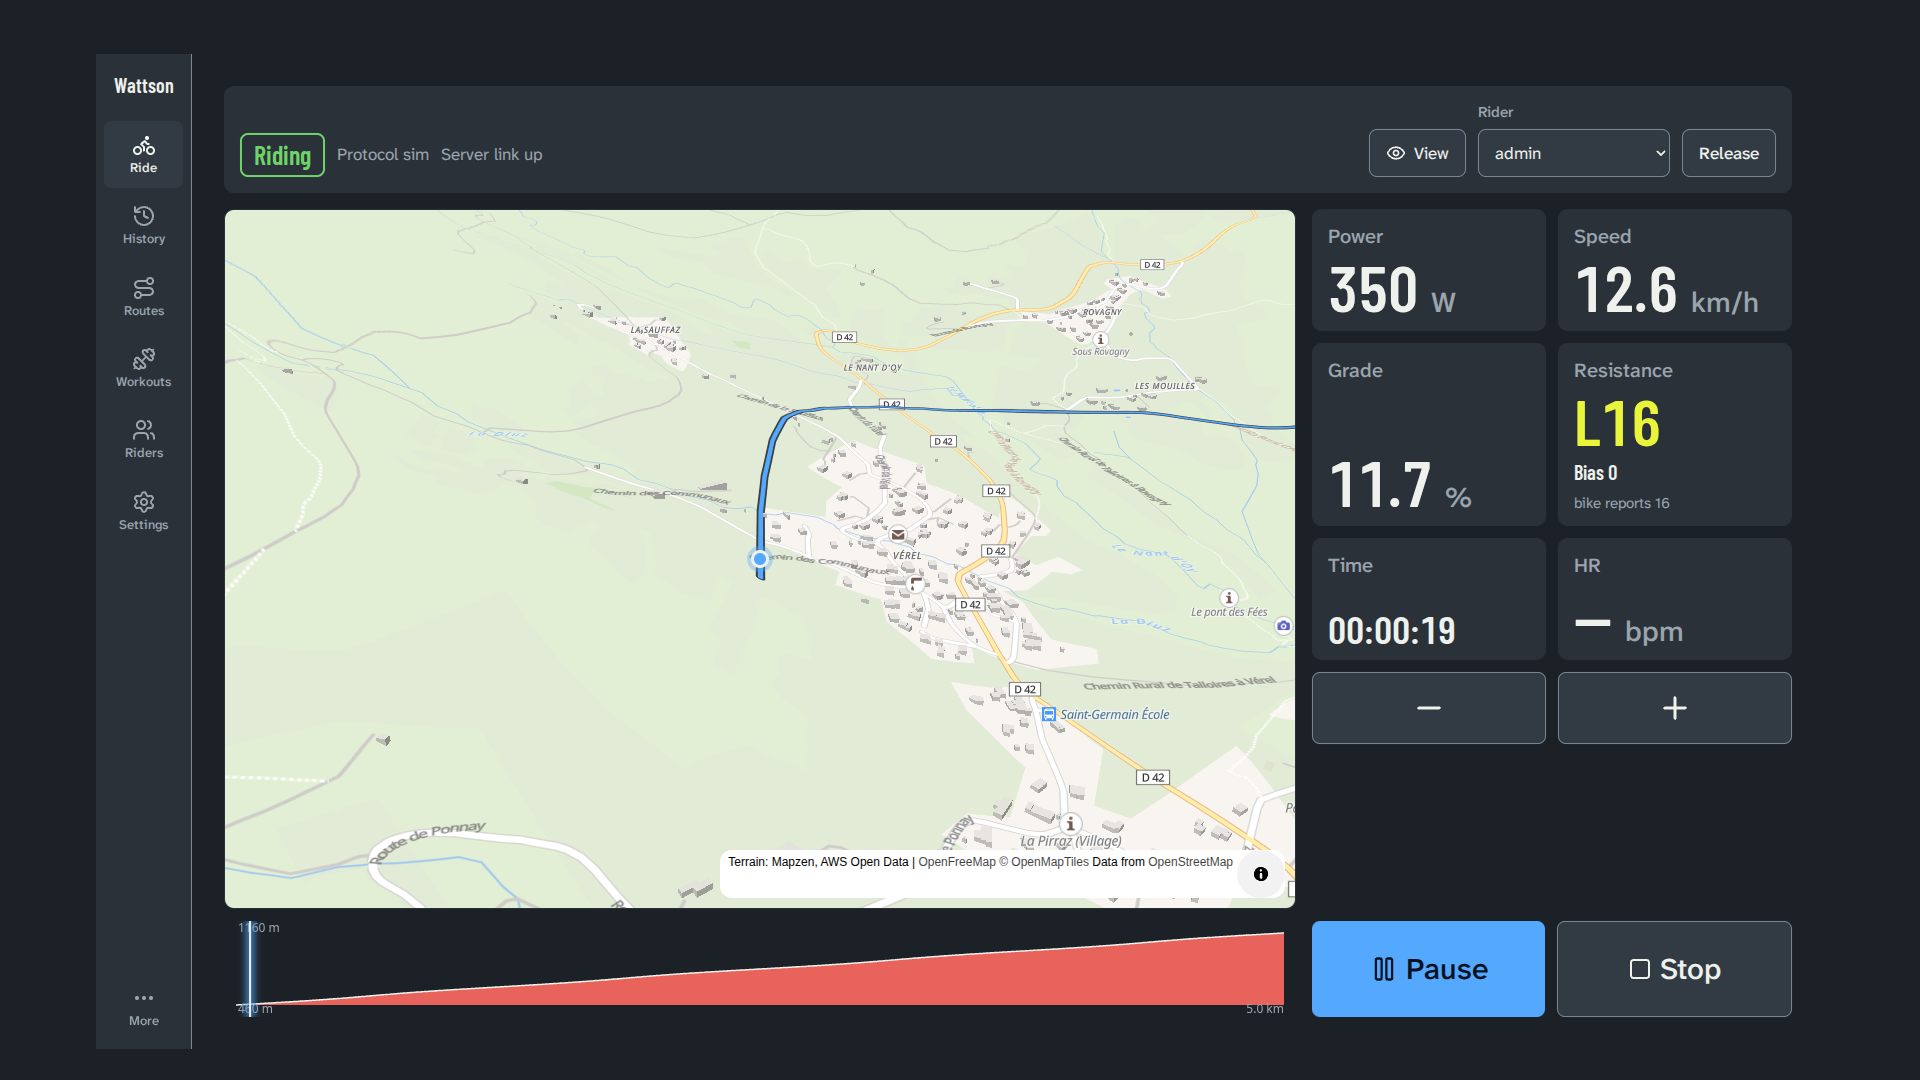
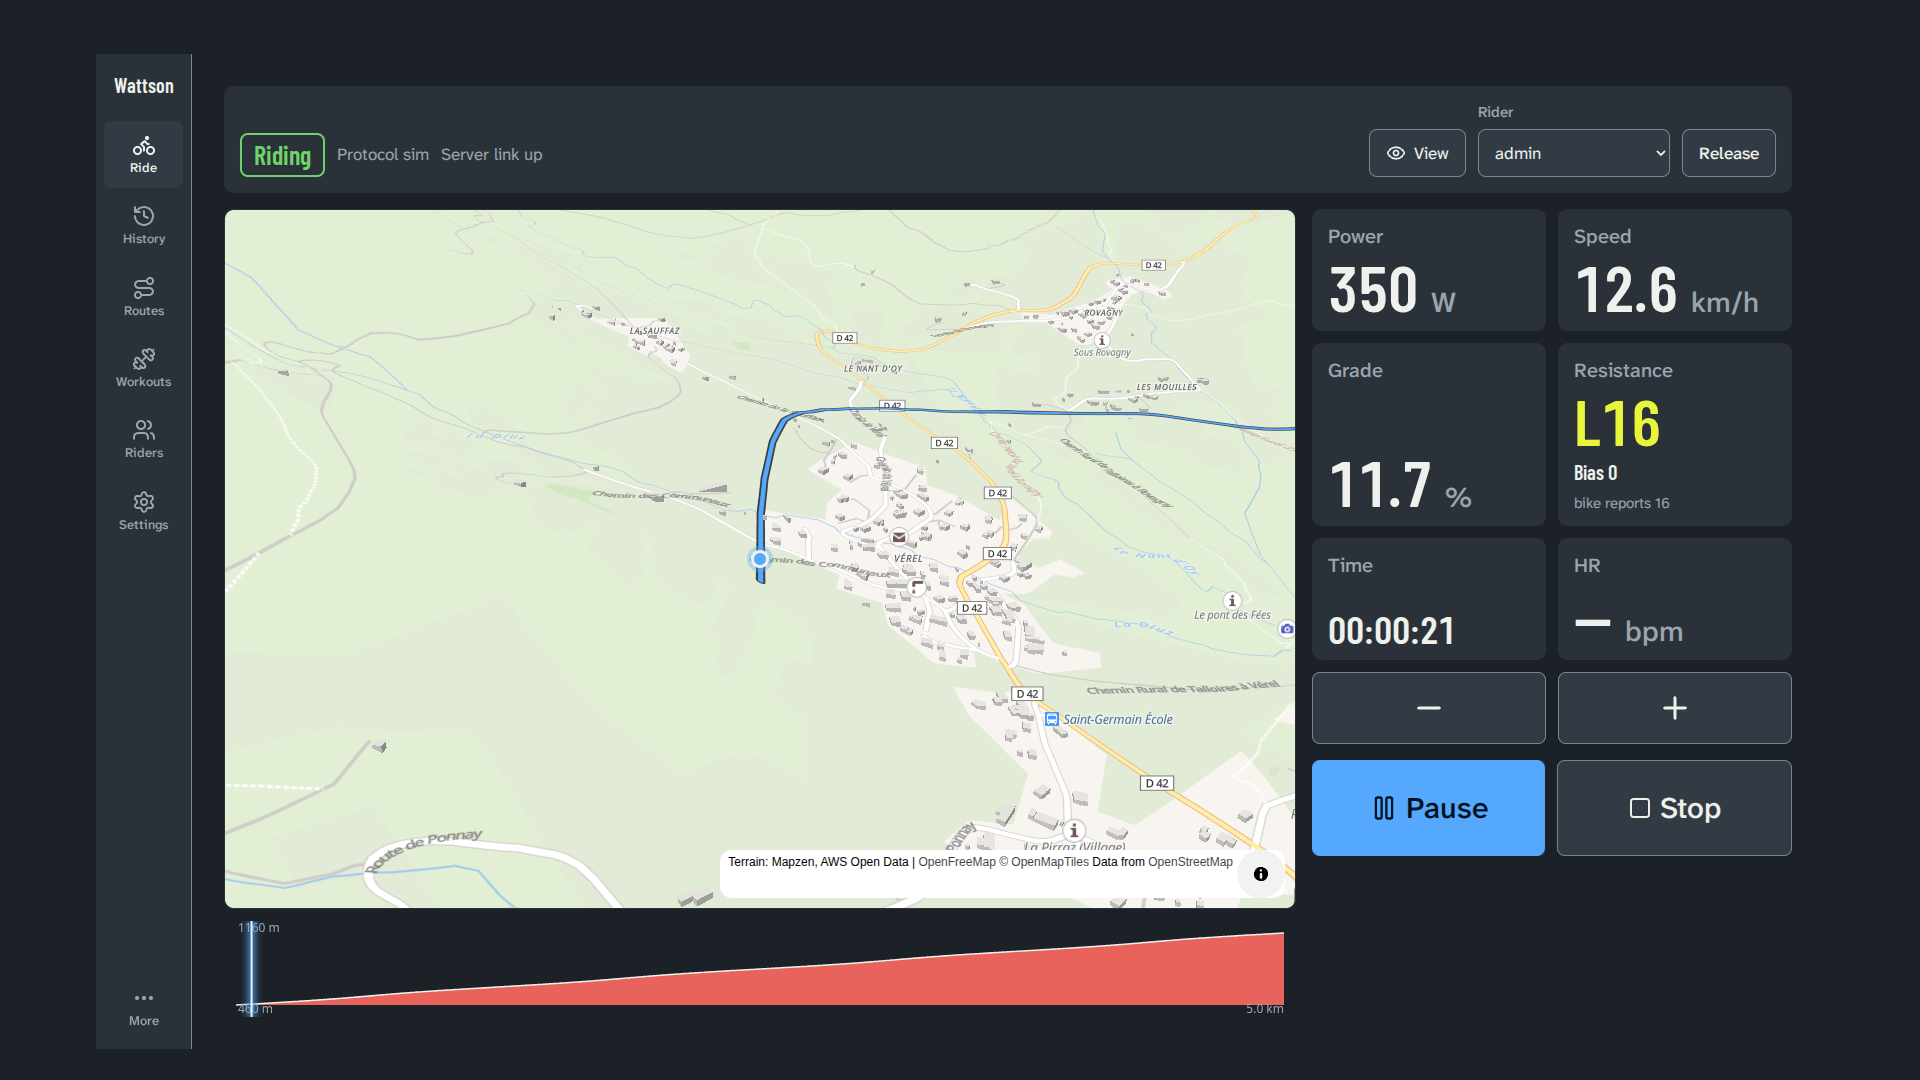
docs: keep the TV 3D screenshot in 3D, tighten the TV rail
The screenshot spec reports a steady frame rate to the flyover's fallback check and
asserts route-3d with pitch > 50 before the shot; the TV rail's controls follow the
numbers instead of sitting at the bottom.

diff --git a/web/e2e/screenshots.spec.ts b/web/e2e/screenshots.spec.ts
@@ -85,12 +85,22 @@ async function setView(page: Page, view: '2d' | '3d' | 'photo') {
 }
 
 test('ride-tv-3d: the TV with the 3D flyover', async ({ page, routeId }) => {
+  // Software rendering is far slower than a TV's GPU: report a steady 60 fps to the flyover's frame-rate
+  // check (it reads the rAF timestamp) so the picture is not taken after a fallback to 2D.
+  await page.addInitScript(() => {
+    const raf = window.requestAnimationFrame.bind(window);
+    let t = 0;
+    window.requestAnimationFrame = (cb) => raf(() => cb((t += 1000 / 60)));
+  });
   await page.setViewportSize({ width: 1920, height: 1080 });
   await setView(page, '3d');
   await ride(page, routeId);
   await expect(page.getByTestId('route-3d')).toBeVisible();
   await settle(page);
   await page.waitForTimeout(10_000); // software rendering draws the tiles a few at a time
+  const view = page.getByTestId('route-3d');
+  await expect(view).toBeVisible(); // still 3D: no fallback to the 2D map
+  await expect.poll(async () => Number((await view.getAttribute('data-pitch')) ?? 0)).toBeGreaterThan(50);
   await shoot(page, 'ride-tv-3d');
 });
 

diff --git a/web/src/index.css b/web/src/index.css
@@ -531,8 +531,9 @@ html.ride-dark .ride-view .ride-viewbox {
     --view-h: calc(90dvh - 17rem);
     --val: 4rem;
     grid-template-columns: minmax(0, 1fr) var(--rail);
-    grid-template-rows: auto 1fr auto;
-    grid-template-areas: 'top top' 'view metrics' 'view controls';
+    /* The last row soaks up the slack, so Pause and Stop sit right under the numbers. */
+    grid-template-rows: auto auto auto 1fr;
+    grid-template-areas: 'top top' 'view metrics' 'view controls' 'view .';
     padding-bottom: 0;
   }
   .ride-screen:not(.ride-flat) .ride-metrics,
